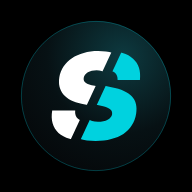
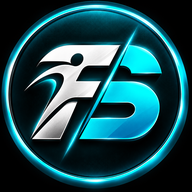
Add files via upload

diff --git a/index.html b/index.html
@@ -23,7 +23,10 @@
       <button id="homeBtn" type="button" class="flex items-center gap-2.5 min-w-0 text-left rounded-xl active:opacity-70" aria-label="Ir al inicio: dieta de hoy">
         <img src="icons/logo-128.png" alt="" class="w-9 h-9 rounded-full" />
         <span class="block leading-none min-w-0">
-          <svg xmlns="http://www.w3.org/2000/svg" class="block" width="124" height="13.5" viewBox="0 0 14272 1554" role="img" aria-label="FITNESTEBAN"><defs><clipPath id="fsL"><polygon points="-547,-1973 1991,3463 -1009,3463 -3547,-1973"/></clipPath><clipPath id="fsR"><polygon points="-547,-1973 1991,3463 4991,3463 2453,-1973"/></clipPath></defs><path transform="translate(15 1522) scale(1 -1)" d="M-7 0H409L498 536H1161L1217 874H554L597 1138H1300L1359 1490H240Z" fill="#ffffff"/><path transform="translate(1214 1522) scale(1 -1)" d="M656 1490H240L-7 0H409Z" fill="#ffffff"/><path transform="translate(1750 1522) scale(1 -1)" d="M141 1138H565L377 0H793L981 1138H1405L1464 1490H200Z" fill="#ffffff"/><path transform="translate(3054 1522) scale(1 -1)" d="M-7 0H409L499 544C509 604 528 721 546 855C595 726 642 611 673 544L921 0H1345L1592 1490H1176L1085 944C1074 873 1055 751 1038 630C998 738 955 849 930 905L664 1490H240Z" fill="#ffffff"/><path transform="translate(4526 1522) scale(1 -1)" d="M-7 0H1147L1205 352H467L504 574H1185L1241 914H560L597 1138H1335L1393 1490H240Z" fill="#ffffff"/><g transform="translate(5774 1522) scale(1 -1)"><path d="M633 -24C1027 -24 1275 141 1324 440C1365 691 1236 834 903 897L786 919C636 947 586 987 598 1058C610 1133 701 1186 818 1186C946 1186 1014 1126 1007 1018H1389C1431 1330 1218 1514 844 1514C492 1514 226 1334 181 1064C142 830 282 665 560 611L704 583C866 552 925 507 913 435C900 357 803 304 672 304C521 304 438 375 452 496H59C5 169 210 -24 633 -24Z" fill="#ffffff" clip-path="url(#fsL)"/></g><g transform="translate(5944 1522) scale(1 -1)"><path d="M633 -24C1027 -24 1275 141 1324 440C1365 691 1236 834 903 897L786 919C636 947 586 987 598 1058C610 1133 701 1186 818 1186C946 1186 1014 1126 1007 1018H1389C1431 1330 1218 1514 844 1514C492 1514 226 1334 181 1064C142 830 282 665 560 611L704 583C866 552 925 507 913 435C900 357 803 304 672 304C521 304 438 375 452 496H59C5 169 210 -24 633 -24Z" fill="#00d2df" clip-path="url(#fsR)"/></g><path transform="translate(7306 1522) scale(1 -1)" d="M141 1138H565L377 0H793L981 1138H1405L1464 1490H200Z" fill="#00d2df"/><path transform="translate(8610 1522) scale(1 -1)" d="M-7 0H1147L1205 352H467L504 574H1185L1241 914H560L597 1138H1335L1393 1490H240Z" fill="#00d2df"/><path transform="translate(9858 1522) scale(1 -1)" d="M-7 0H705C1028 0 1236 165 1274 396C1311 619 1181 768 990 783V784C1168 817 1313 932 1339 1092C1377 1322 1215 1490 875 1490H239ZM448 312 497 606H717C818 606 873 548 859 459C844 370 769 312 668 312ZM546 900 592 1178H787C879 1178 929 1123 915 1039C901 955 833 900 741 900Z" fill="#00d2df"/><path transform="translate(11148 1522) scale(1 -1)" d="M-87 0H381L495 245H993L1023 0H1478L1220 1490H660ZM644 565 650 578C734 758 813 932 891 1113C909 932 930 758 952 578L954 565Z" fill="#00d2df"/><path transform="translate(12672 1522) scale(1 -1)" d="M-7 0H409L499 544C509 604 528 721 546 855C595 726 642 611 673 544L921 0H1345L1592 1490H1176L1085 944C1074 873 1055 751 1038 630C998 738 955 849 930 905L664 1490H240Z" fill="#00d2df"/></svg>
+          <svg xmlns="http://www.w3.org/2000/svg" class="block" width="124.9" height="14.4" overflow="visible" viewBox="0 0 14386 1658" role="img" aria-label="FITNESTEBAN"><defs><linearGradient id="wSil" gradientUnits="userSpaceOnUse" x1="0" y1="1490" x2="0" y2="0"><stop offset="0" stop-color="#ffffff"/><stop offset=".42" stop-color="#eef3f5"/><stop offset=".5" stop-color="#c3ced4"/><stop offset=".62" stop-color="#e9eef1"/><stop offset="1" stop-color="#ffffff"/></linearGradient>
+<linearGradient id="wCy" gradientUnits="userSpaceOnUse" x1="0" y1="1490" x2="0" y2="0"><stop offset="0" stop-color="#8af4ff"/><stop offset=".45" stop-color="#1fd9ef"/><stop offset="1" stop-color="#0098c2"/></linearGradient>
+<filter id="wGlow" x="-5%" y="-30%" width="110%" height="160%"><feGaussianBlur in="SourceAlpha" result="b" stdDeviation="35"/><feFlood flood-color="#00d2df" flood-opacity="0.35"/><feComposite operator="in" in2="b"/><feMerge><feMergeNode/><feMergeNode in="SourceGraphic"/></feMerge></filter>
+<clipPath id="fsL"><polygon points="-547,-1973 1991,3463 -1009,3463 -3547,-1973"/></clipPath><clipPath id="fsR"><polygon points="-547,-1973 1991,3463 4991,3463 2453,-1973"/></clipPath></defs><path transform="translate(89 1604) scale(1 -1)" d="M-7 0H409L498 536H1161L1217 874H554L597 1138H1300L1359 1490H240Z" fill="#06303a"/><path transform="translate(1289 1604) scale(1 -1)" d="M656 1490H240L-7 0H409Z" fill="#06303a"/><path transform="translate(1826 1604) scale(1 -1)" d="M141 1138H565L377 0H793L981 1138H1405L1464 1490H200Z" fill="#06303a"/><path transform="translate(3131 1604) scale(1 -1)" d="M-7 0H409L499 544C509 604 528 721 546 855C595 726 642 611 673 544L921 0H1345L1592 1490H1176L1085 944C1074 873 1055 751 1038 630C998 738 955 849 930 905L664 1490H240Z" fill="#06303a"/><path transform="translate(4604 1604) scale(1 -1)" d="M-7 0H1147L1205 352H467L504 574H1185L1241 914H560L597 1138H1335L1393 1490H240Z" fill="#06303a"/><g transform="translate(5853 1604) scale(1 -1)"><path d="M633 -24C1027 -24 1275 141 1324 440C1365 691 1236 834 903 897L786 919C636 947 586 987 598 1058C610 1133 701 1186 818 1186C946 1186 1014 1126 1007 1018H1389C1431 1330 1218 1514 844 1514C492 1514 226 1334 181 1064C142 830 282 665 560 611L704 583C866 552 925 507 913 435C900 357 803 304 672 304C521 304 438 375 452 496H59C5 169 210 -24 633 -24Z" fill="#06303a" clip-path="url(#fsL)"/></g><g transform="translate(6023 1604) scale(1 -1)"><path d="M633 -24C1027 -24 1275 141 1324 440C1365 691 1236 834 903 897L786 919C636 947 586 987 598 1058C610 1133 701 1186 818 1186C946 1186 1014 1126 1007 1018H1389C1431 1330 1218 1514 844 1514C492 1514 226 1334 181 1064C142 830 282 665 560 611L704 583C866 552 925 507 913 435C900 357 803 304 672 304C521 304 438 375 452 496H59C5 169 210 -24 633 -24Z" fill="#06303a" clip-path="url(#fsR)"/></g><path transform="translate(7386 1604) scale(1 -1)" d="M141 1138H565L377 0H793L981 1138H1405L1464 1490H200Z" fill="#06303a"/><path transform="translate(8691 1604) scale(1 -1)" d="M-7 0H1147L1205 352H467L504 574H1185L1241 914H560L597 1138H1335L1393 1490H240Z" fill="#06303a"/><path transform="translate(9940 1604) scale(1 -1)" d="M-7 0H705C1028 0 1236 165 1274 396C1311 619 1181 768 990 783V784C1168 817 1313 932 1339 1092C1377 1322 1215 1490 875 1490H239ZM448 312 497 606H717C818 606 873 548 859 459C844 370 769 312 668 312ZM546 900 592 1178H787C879 1178 929 1123 915 1039C901 955 833 900 741 900Z" fill="#06303a"/><path transform="translate(11231 1604) scale(1 -1)" d="M-87 0H381L495 245H993L1023 0H1478L1220 1490H660ZM644 565 650 578C734 758 813 932 891 1113C909 932 930 758 952 578L954 565Z" fill="#06303a"/><path transform="translate(12756 1604) scale(1 -1)" d="M-7 0H409L499 544C509 604 528 721 546 855C595 726 642 611 673 544L921 0H1345L1592 1490H1176L1085 944C1074 873 1055 751 1038 630C998 738 955 849 930 905L664 1490H240Z" fill="#06303a"/><g filter="url(#wGlow)"><path transform="translate(67 1574) scale(1 -1)" d="M-7 0H409L498 536H1161L1217 874H554L597 1138H1300L1359 1490H240Z" fill="url(#wSil)"/><path transform="translate(1267 1574) scale(1 -1)" d="M656 1490H240L-7 0H409Z" fill="url(#wSil)"/><path transform="translate(1804 1574) scale(1 -1)" d="M141 1138H565L377 0H793L981 1138H1405L1464 1490H200Z" fill="url(#wSil)"/><path transform="translate(3109 1574) scale(1 -1)" d="M-7 0H409L499 544C509 604 528 721 546 855C595 726 642 611 673 544L921 0H1345L1592 1490H1176L1085 944C1074 873 1055 751 1038 630C998 738 955 849 930 905L664 1490H240Z" fill="url(#wSil)"/><path transform="translate(4582 1574) scale(1 -1)" d="M-7 0H1147L1205 352H467L504 574H1185L1241 914H560L597 1138H1335L1393 1490H240Z" fill="url(#wSil)"/><g transform="translate(5831 1574) scale(1 -1)"><path d="M633 -24C1027 -24 1275 141 1324 440C1365 691 1236 834 903 897L786 919C636 947 586 987 598 1058C610 1133 701 1186 818 1186C946 1186 1014 1126 1007 1018H1389C1431 1330 1218 1514 844 1514C492 1514 226 1334 181 1064C142 830 282 665 560 611L704 583C866 552 925 507 913 435C900 357 803 304 672 304C521 304 438 375 452 496H59C5 169 210 -24 633 -24Z" fill="url(#wSil)" clip-path="url(#fsL)"/></g><g transform="translate(6001 1574) scale(1 -1)"><path d="M633 -24C1027 -24 1275 141 1324 440C1365 691 1236 834 903 897L786 919C636 947 586 987 598 1058C610 1133 701 1186 818 1186C946 1186 1014 1126 1007 1018H1389C1431 1330 1218 1514 844 1514C492 1514 226 1334 181 1064C142 830 282 665 560 611L704 583C866 552 925 507 913 435C900 357 803 304 672 304C521 304 438 375 452 496H59C5 169 210 -24 633 -24Z" fill="url(#wCy)" clip-path="url(#fsR)"/></g><path transform="translate(7364 1574) scale(1 -1)" d="M141 1138H565L377 0H793L981 1138H1405L1464 1490H200Z" fill="url(#wCy)"/><path transform="translate(8669 1574) scale(1 -1)" d="M-7 0H1147L1205 352H467L504 574H1185L1241 914H560L597 1138H1335L1393 1490H240Z" fill="url(#wCy)"/><path transform="translate(9918 1574) scale(1 -1)" d="M-7 0H705C1028 0 1236 165 1274 396C1311 619 1181 768 990 783V784C1168 817 1313 932 1339 1092C1377 1322 1215 1490 875 1490H239ZM448 312 497 606H717C818 606 873 548 859 459C844 370 769 312 668 312ZM546 900 592 1178H787C879 1178 929 1123 915 1039C901 955 833 900 741 900Z" fill="url(#wCy)"/><path transform="translate(11209 1574) scale(1 -1)" d="M-87 0H381L495 245H993L1023 0H1478L1220 1490H660ZM644 565 650 578C734 758 813 932 891 1113C909 932 930 758 952 578L954 565Z" fill="url(#wCy)"/><path transform="translate(12734 1574) scale(1 -1)" d="M-7 0H409L499 544C509 604 528 721 546 855C595 726 642 611 673 544L921 0H1345L1592 1490H1176L1085 944C1074 873 1055 751 1038 630C998 738 955 849 930 905L664 1490H240Z" fill="url(#wCy)"/></g></svg>
           <span id="headerSub" class="block text-[10px] text-mute mt-1 truncate">Gym · Nutrición · Coach</span>
         </span>
       </button>

diff --git a/app.js b/app.js
@@ -4,7 +4,7 @@
    Datos: localStorage (solo en este móvil). Sin fotos guardadas.
    ========================================================================= */
 
-const APP_VERSION = '4.13.6';
+const APP_VERSION = '4.13.8';
 const STORE_KEY = 'fitnesteban_v4';
 const OLD_KEY = 'fitnesteban_v3';
 const DEFAULT_MODEL = 'gemini-3-flash-preview';
@@ -831,11 +831,9 @@ async function buildShareCard(s) {
     ctx.save(); ctx.beginPath(); ctx.arc(140, 150, 70, 0, Math.PI * 2); ctx.clip(); ctx.drawImage(logo, 70, 80, 140, 140); ctx.restore();
   } catch { /* sin logo */ }
   try {
-    const svg = $('#homeBtn svg').cloneNode(true);
-    const vb = svg.viewBox.baseVal, mh = Math.round(600 * vb.height / vb.width);
-    svg.setAttribute('width', '600'); svg.setAttribute('height', String(mh));
-    const url = URL.createObjectURL(new Blob([new XMLSerializer().serializeToString(svg)], { type: 'image/svg+xml' }));
-    const img = await loadImg(url); ctx.drawImage(img, 240, 120, 600, mh); URL.revokeObjectURL(url);
+    const img = await loadImg('icons/marca.svg');
+    const mh = Math.round(600 * img.naturalHeight / img.naturalWidth);
+    ctx.drawImage(img, 240, 154 - mh / 2, 600, mh);
   } catch { ctx.fillStyle = '#fff'; ctx.font = `italic 900 60px ${F}`; ctx.fillText('FITNESTEBAN', 240, 175); }
   const st = sessionStats(s);
   const day = allDays().find(d => d.id === s.dayId);
@@ -851,7 +849,7 @@ async function buildShareCard(s) {
     [s.durationMin ? `${s.durationMin}` : '—', 'minutos'],
     [`${st.nSets}`, 'series'],
     [st.vol >= 1000 ? `${fmtNum(Math.round(st.vol / 100) / 10)} t` : `${st.vol} kg`, 'volumen'],
-    [st.kcal ? `~${st.kcal}` : `${s.exercises.length}`, st.kcal ? 'kcal netas' : 'ejercicios']
+    [st.kcal ? `~${st.kcal}` : `${s.exercises.length}`, st.kcal ? 'kcal netas' : (s.exercises.length === 1 ? 'ejercicio' : 'ejercicios')]
   ];
   tiles.forEach(([v, l], i) => {
     const x = 70 + (i % 2) * 480, y = 660 + Math.floor(i / 2) * 230;
@@ -2764,6 +2762,7 @@ $('#chatBtn')?.addEventListener('click', openChat);
    GUÍA Y NOVEDADES
    ========================================================================= */
 const CHANGELOG = [
+  ['4.13.8', ['✨ Logo nuevo FS en la cabecera, la tarjeta de compartir y el icono de la app, y la marca FITNESTEBAN con su mismo estilo: plata, cian con brillo y la S partida por un hueco limpio.']],
   ['4.13.6', ['✨ La cabecera y la tarjeta de compartir estrenan el logo de la S partida.']],
   ['4.13.4', ['📱 Icono nuevo de la app: la S partida en blanco y cian, dentro de un círculo oscuro con luz.']],
   ['4.13.2', ['✨ Marca renovada: la S de FITNESTEBAN se parte en diagonal en dos mitades, blanca y cian.']],

diff --git a/sw.js b/sw.js
@@ -1,6 +1,6 @@
 /* FITNESTEBAN service worker: funciona sin conexión.
    Al cambiar cualquier archivo de la app, sube el número de CACHE para que el móvil descargue la versión nueva. */
-const CACHE = 'fitnesteban-4.13.6';
+const CACHE = 'fitnesteban-4.13.8';
 const ASSETS = [
   './',
   './index.html',
@@ -9,6 +9,7 @@ const ASSETS = [
   './manifest.webmanifest',
   './icons/logo-128.png',
   './icons/logo-512.png',
+  './icons/marca.svg',
   './icons/favicon-48.png',
   './icons/icon-192.png',
   './icons/icon-512.png',
